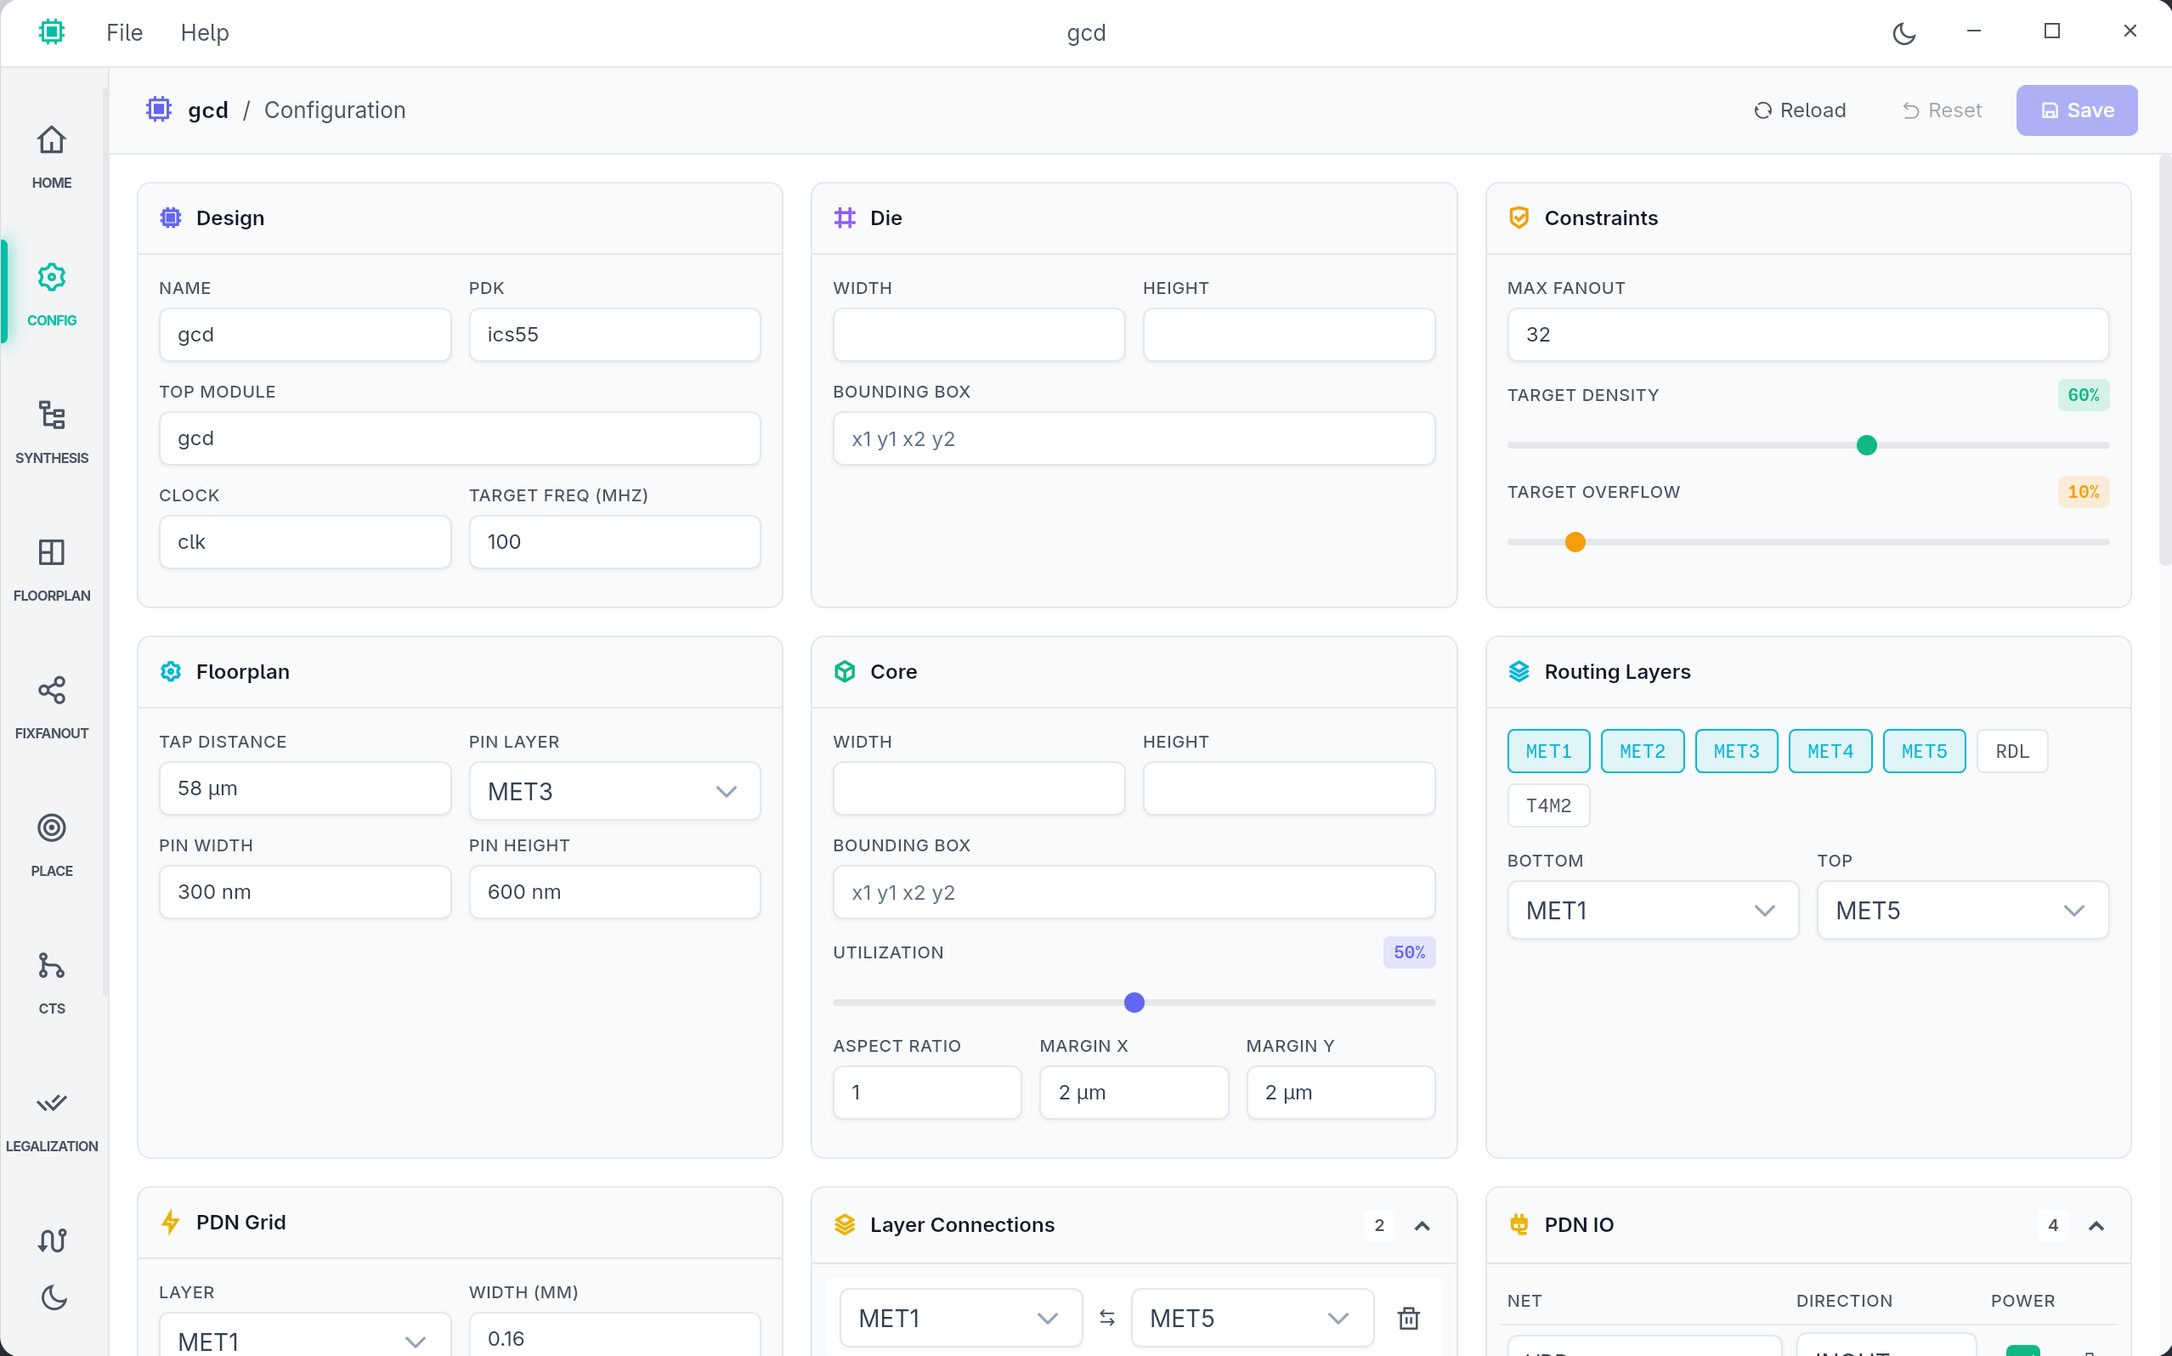
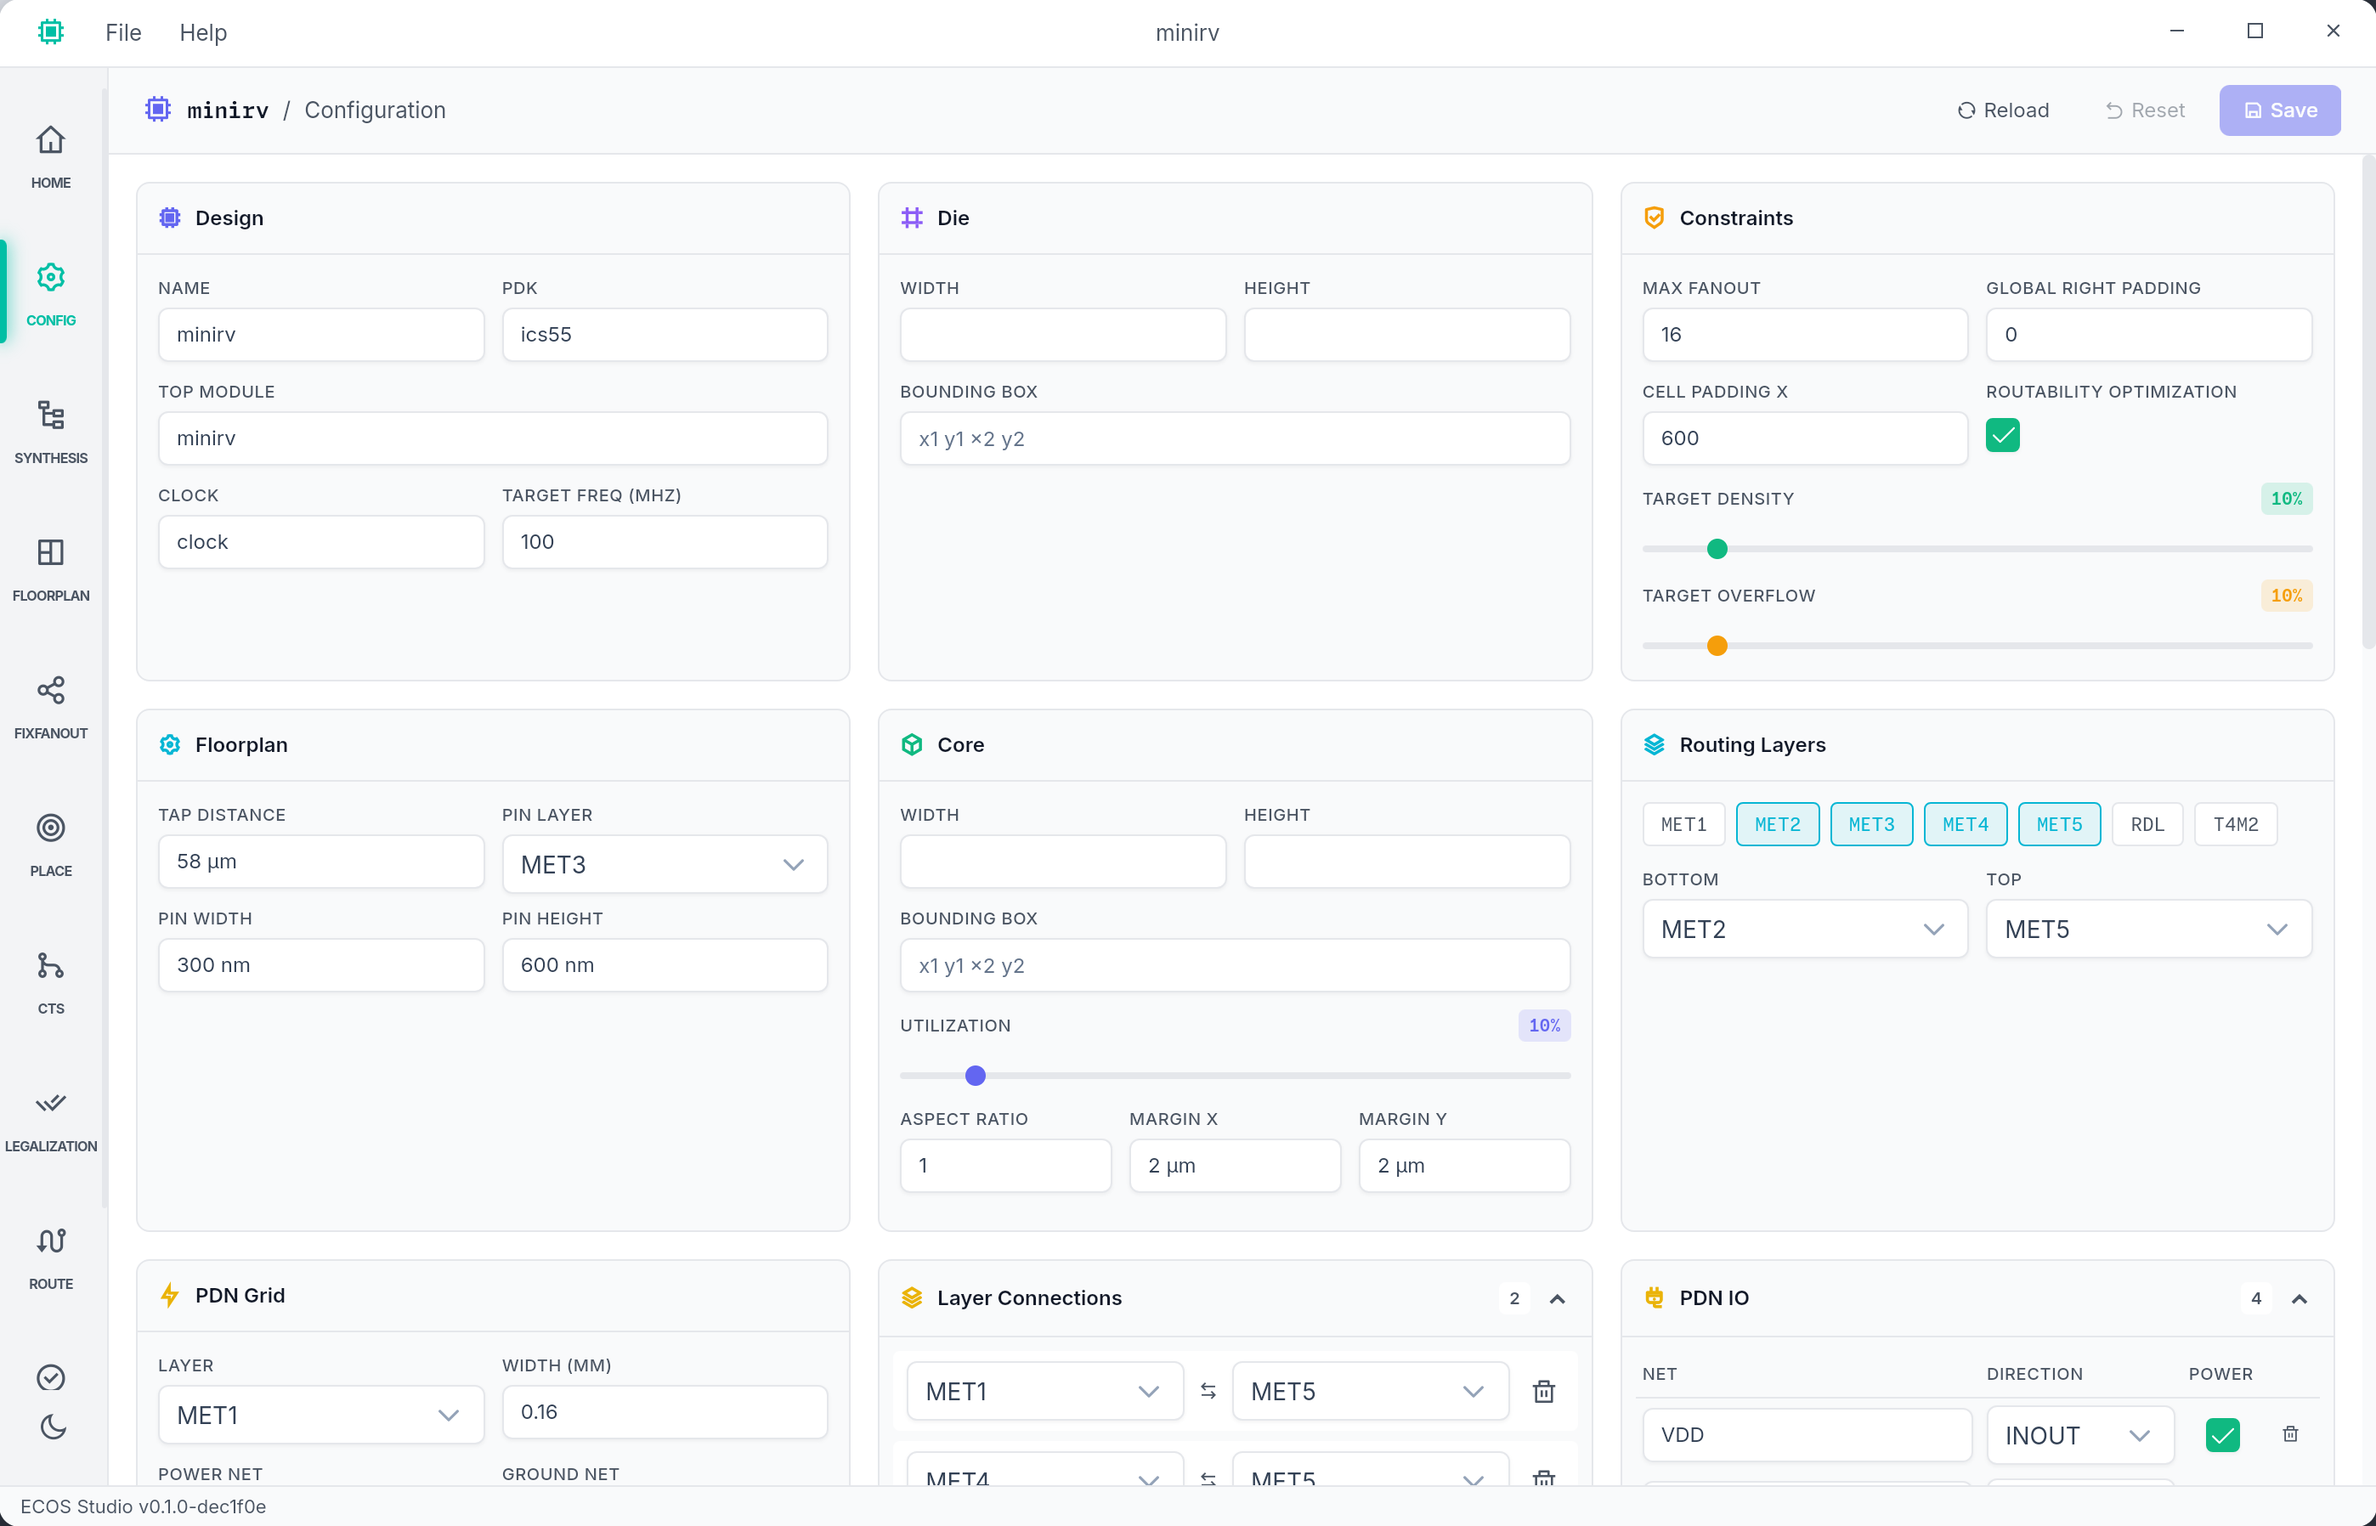
docs: remove old links, update page-configure photo

diff --git a/ecos/docs/user-guide.md b/ecos/docs/user-guide.md
@@ -489,7 +489,3 @@ View design metrics and analysis charts generated during the flow:
 - **Read API Guide** - Learn backend integration with REST API
 - **Join Community** - Participate in discussions and contribute
 
-For more information, see:
-- [Architecture Documentation](architecture.md)
-- [Development Guide](development.md)
-- [API Guide](api-guide.md)
